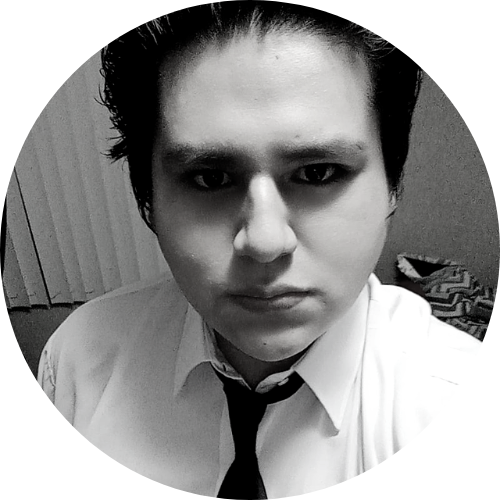
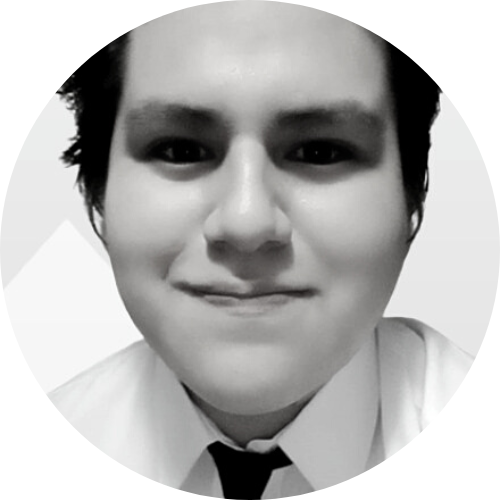
cofounders

diff --git a/G1-PROYECTO-DSW/Estilos/styleNosotros.css b/G1-PROYECTO-DSW/Estilos/styleNosotros.css
@@ -61,7 +61,26 @@
   }
 
   /*-----------------------------------------------------------------  nosotros.html -------------------------------------------------------*/
+  .cofundadores {
+    display: flex;
+    flex-wrap: wrap;
+    justify-content: center;
+  }
 
+  .cofundador {
+    text-align: center;
+    margin: 5px;
+  }
+
+  .cofundador img {
+    width: 100%;
+    max-width: 150px;
+  }
+
+  .nombres {
+    margin-top: 5px;
+    font-size: 14px;
+  }
   
   .content-img img{
     /*height: 350px;*/

diff --git a/G1-PROYECTO-DSW/Index/Usuario/nosotros.php b/G1-PROYECTO-DSW/Index/Usuario/nosotros.php
@@ -90,6 +90,51 @@ Nuestra visión es ser líderes en la promoción de productos auténticos de las
             <div class="row row-p1">
                 <h2 class="text-center">CO-FUNDADORES</h2>
             </div>
+            <div class="cofundadores">
+                <div class="cofundador">
+                    <img src="../../Image/Cofundadores/Nicolas.png" class="img-fluid" alt="Nicolas Anicama">
+                    <div class="nombres">
+                        <p>Nicolas Anicama</p>
+                    </div>
+                </div>
+                <div class="cofundador">
+                    <img src="../../Image/Cofundadores/Diana.png" class="img-fluid" alt="Diana Bardon">
+                    <div class="nombres">
+                        <p>Diana Bardon</p>
+                    </div>
+                </div>
+                <div class="cofundador">
+                    <img src="../../Image/Cofundadores/Yan.png" class="img-fluid" alt="Yan Huaman">
+                    <div class="nombres">
+                        <p>Yan Huaman</p>
+                    </div>
+                </div>
+                <div class="cofundador">
+                    <img src="../../Image/Cofundadores/Miguel.png" class="img-fluid" alt="Miguel Maguiña">
+                    <div class="nombres">
+                        <p>Miguel Maguiña</p>
+                    </div>
+                </div>
+                <div class="cofundador">
+                    <img src="../../Image/Cofundadores/Luis.png" class="img-fluid" alt="Luis Mayta">
+                    <div class="nombres">
+                        <p>Luis Mayta</p>
+                    </div>
+                </div>
+                <div class="cofundador">
+                    <img src="../../Image/Cofundadores/Ivan.png" class="img-fluid" alt="Ivan Saenz">
+                    <div class="nombres">
+                        <p>Ivan Saenz</p>
+                    </div>
+                </div>
+                <div class="cofundador">
+                    <img src="../../Image/Cofundadores/Renzo.png" class="img-fluid" alt="Renzo Tacuri">
+                    <div class="nombres">
+                        <p>Renzo Tacuri</p>
+                    </div>
+                </div>
+                
+            </div>
         </div>
     </section>
        
